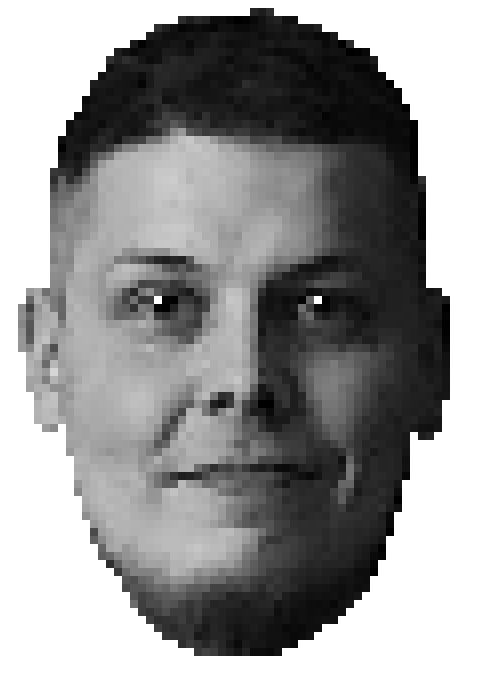
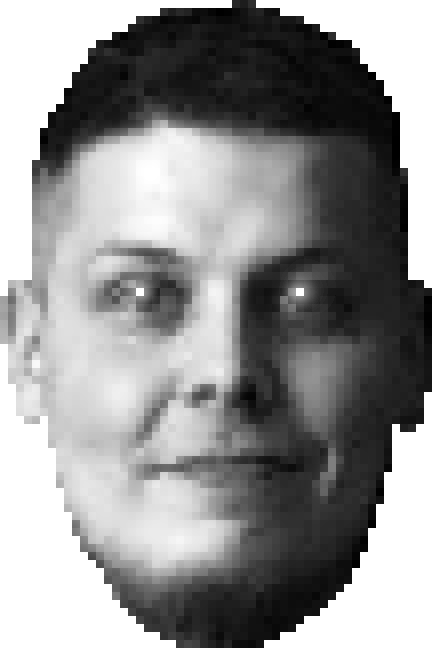
Add resume

diff --git a/styles.css b/styles.css
@@ -1,5 +1,5 @@
 body {
-  background-color: #EEEEEE;
+  background-color: #BBB;
   font-family: 'Courier New', Courier, monospace;
   margin: 0;
   padding: 0;
@@ -13,8 +13,10 @@ body {
   width: 90%;
   max-width: 600px;
   padding: 12px;
-  background-color: #FFFFFF;
+  background-color: #DDD;
   box-shadow: 5px 5px 5px #888;
+  perspective: 1000;
+  -webkit-perspective: 1000;
 }
 
 h1 {
@@ -22,7 +24,26 @@ h1 {
   text-align: center;
 }
 
+@keyframes float {
+	0% {
+		transform: scale(1.0);
+    -webkit-filter: drop-shadow(15px 11px 10px #222) drop-shadow(-30px -20px 12px #FFFFFF);
+    filter: drop-shadow(15px 11px 10px #222) drop-shadow(-30px -20px 12px #FFFFFF);
+	}
+	50% {
+		transform: scale(1.04);
+    -webkit-filter: drop-shadow(20px 25px 18px #222) drop-shadow(-30px -20px 12px #FFFFFF);
+    filter: drop-shadow(20px 25px 18px #222) drop-shadow(-30px -20px 12px #FFFFFF);
+	}
+	100% {
+		transform: scale(1.0);
+    -webkit-filter: drop-shadow(15px 11px 10px #222) drop-shadow(-30px -20px 12px #FFFFFF);
+    filter: drop-shadow(15px 11px 10px #222) drop-shadow(-30px -20px 12px #FFFFFF);
+	}
+}
+
 img {
-  -webkit-filter: drop-shadow(5px 5px 5px #555);
-  filter: drop-shadow(5px 5px 5px #555);
+  
+  transform: translateZ(0px);
+	animation: float 2.5s ease-in-out infinite;
 }

diff --git a/index.html b/index.html
@@ -9,6 +9,7 @@
 </head>
 
 <body>
+  
   <br/>
   <div class="main-container">
 
@@ -19,7 +20,18 @@
       <img src="./img.png" height="500px" />
     </div>
     <br/>
-  
+
+    <div style="margin-left: 10%;">
+      <h2>I've done some ...</h2>
+
+      <ul>
+        <li>Java</li>
+        <li>Artificial intelligence</li>
+        <li>Adult people 👉👌</li>
+      </ul>
+    </div>
+    
+    <br/>
   </div>
 </body>
 </html>
